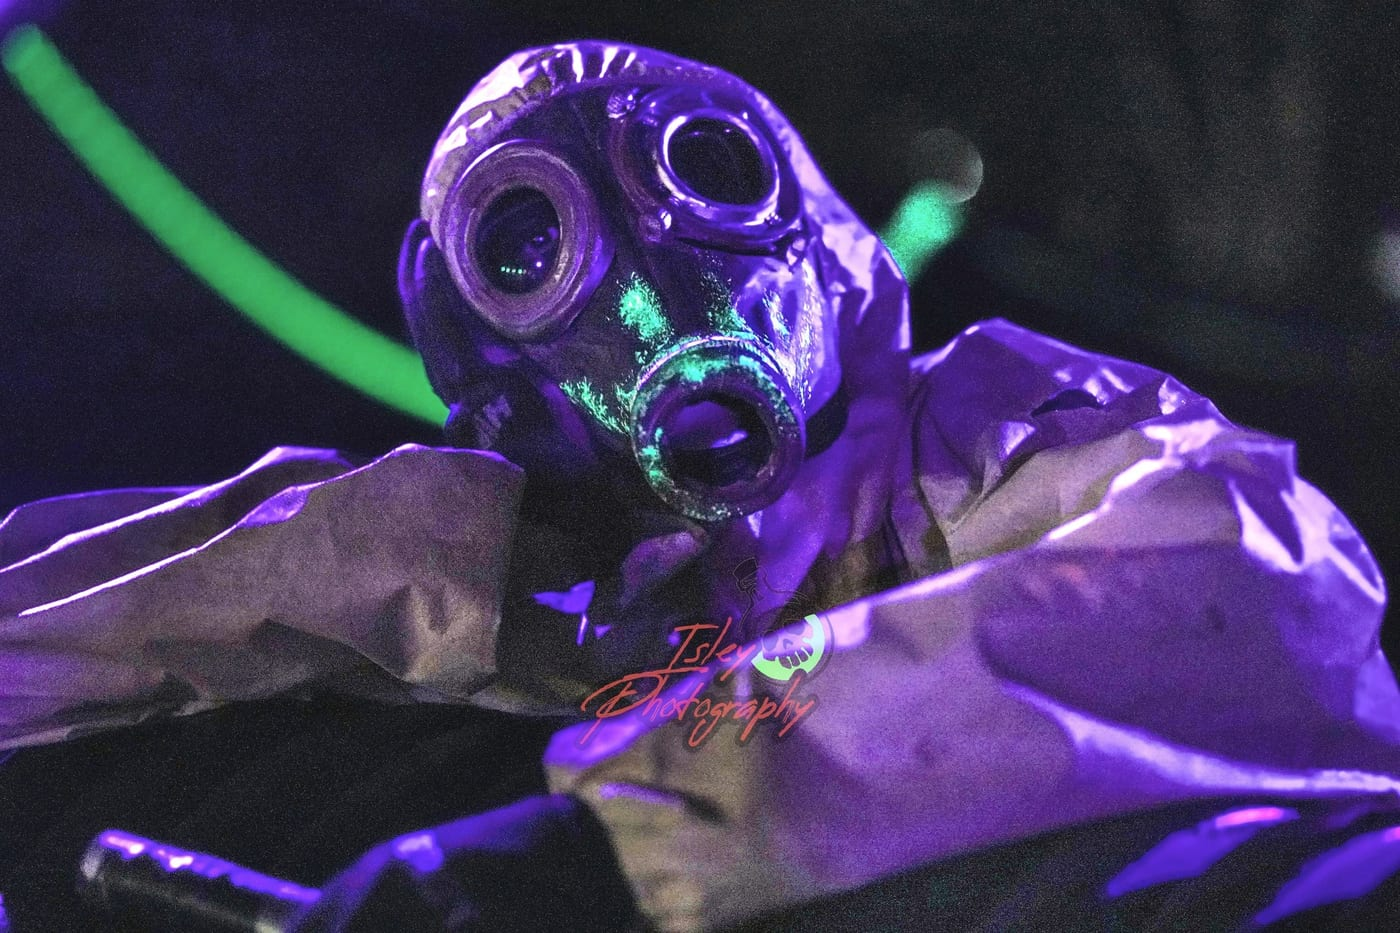
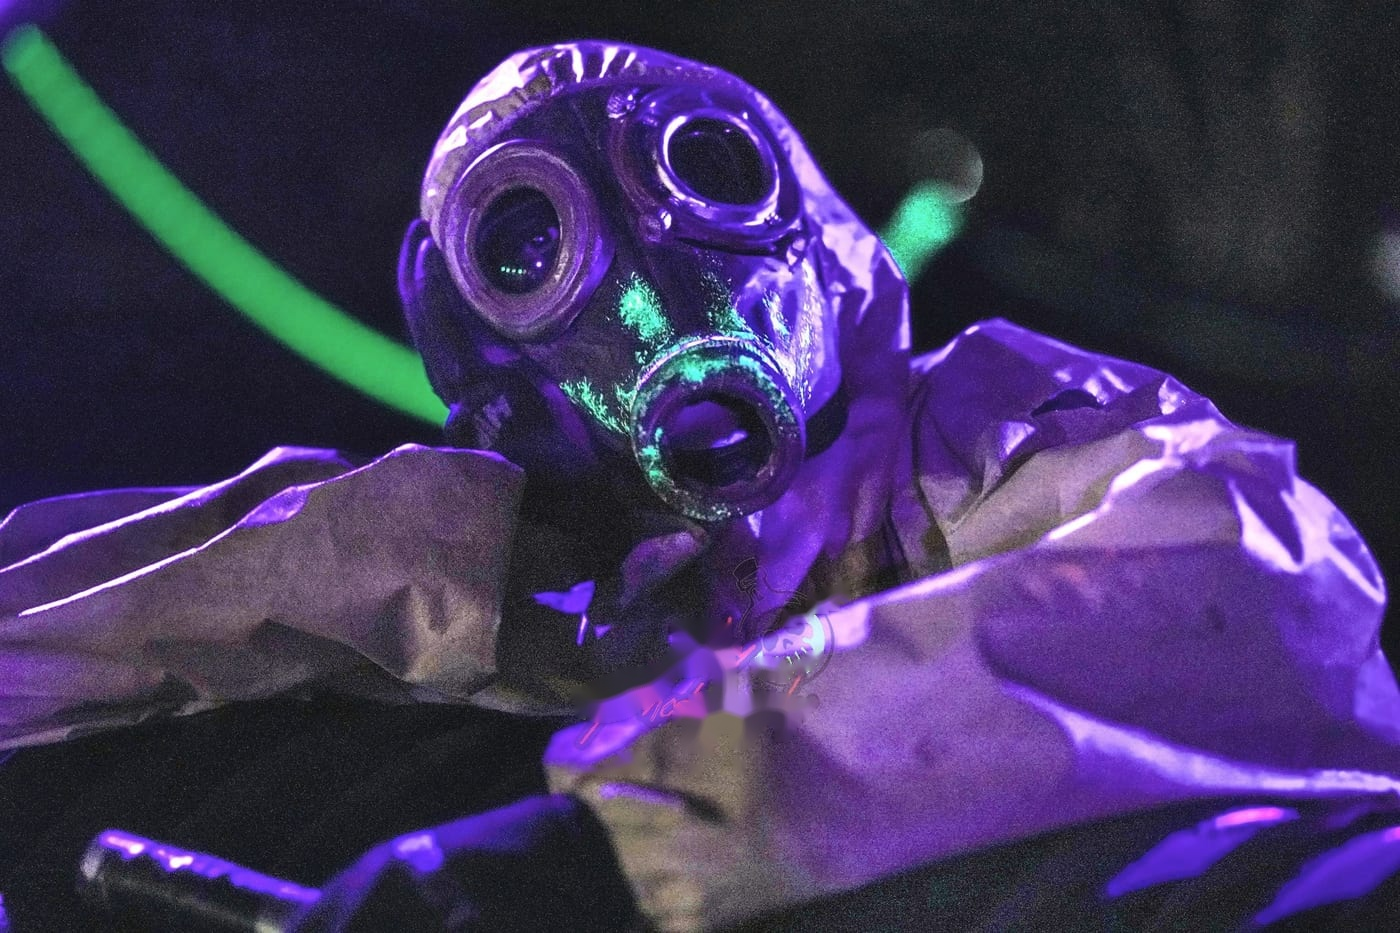
Rotate jump scares, swap forest hero, strip photo watermarks (#45)
* Remove third-party photography watermark from attraction photos

Inpaints the "Isley Photography" logo out of every attraction photo that
carried it, so the site no longer credits an outside photographer on
imagery it uses across the hero, gallery, and jump scare.

* Rotate the jump scare between multiple faces

Previously always fired the same clown close-up. Now picks randomly from
a pool of four close-up faces on each page load, re-rolled per visit.

* Swap Haunted Forest hero background to the green scarecrow figure

Replaces twisted-figure-red.jpg with forest-figure-green.jpg, with the
crop repositioned so the figure stays in frame on both mobile and wide
desktop viewports.

---------

Changed region(s): [[0.3993, 0.6527, 0.5836, 0.8081], [0.5836, 0.6217, 0.6143, 0.6527], [0.43, 0.8081, 0.4607, 0.8392]]

diff --git a/components/horror/ScrollScare.tsx b/components/horror/ScrollScare.tsx
@@ -3,6 +3,16 @@
 import { useEffect, useRef, useState } from 'react'
 import JumpScare from './JumpScare'
 
+// Pool of faces the scare can draw from. Kept to close-up, front-facing
+// shots that read instantly at a glance — the scare only shows for
+// ~170ms, so anything busier than a single face doesn't land in time.
+const FACES = [
+  '/images/attraction/clown-redhair-closeup.jpg',
+  '/images/attraction/clown-skull-dark.jpg',
+  '/images/attraction/chainsaw-crown-blue.jpg',
+  '/images/attraction/ghost-masks-pair.jpg',
+]
+
 /**
  * Fires the one jump scare off ordinary page scroll.
  *
@@ -12,13 +22,17 @@ import JumpScare from './JumpScare'
  */
 export default function ScrollScare({
   at = 0.55,
-  src = '/images/attraction/clown-redhair-closeup.jpg',
+  src,
 }: {
   /** Fraction of the page scrolled before it triggers */
   at?: number
+  /** Defaults to a random pick from FACES, re-rolled on every page load */
   src?: string
 }) {
   const progressRef = useRef(0)
+  // Picked once per mount, not on every render — a face shouldn't change
+  // mid-visit just because something re-rendered this component.
+  const [face] = useState(() => src ?? FACES[Math.floor(Math.random() * FACES.length)])
   // Resolved in an effect, never during render — `window` does not exist
   // when this is server-rendered.
   const [reducedMotion, setReducedMotion] = useState(true)
@@ -47,7 +61,7 @@ export default function ScrollScare({
 
   return (
     <div className="scroll-scare-host">
-      <JumpScare progressRef={progressRef} at={at} src={src} reducedMotion={reducedMotion} />
+      <JumpScare progressRef={progressRef} at={at} src={face} reducedMotion={reducedMotion} />
     </div>
   )
 }

diff --git a/app/haunted-forest/page.tsx b/app/haunted-forest/page.tsx
@@ -77,12 +77,12 @@ export default function HauntedForestPage() {
         <div className="attraction-hero" style={{ minHeight: '75vh' }}>
           <div className="attraction-hero-bg" aria-hidden="true">
             <Image
-              src="/images/attraction/twisted-figure-red.jpg"
+              src="/images/attraction/forest-figure-green.jpg"
               alt=""
               fill
               priority
               sizes="100vw"
-              style={{ objectFit: 'cover', objectPosition: '50% 20%' }}
+              style={{ objectFit: 'cover', objectPosition: '50% 45%' }}
             />
           </div>
           {/* Atmospheric dark overlay deeper in forest */}
